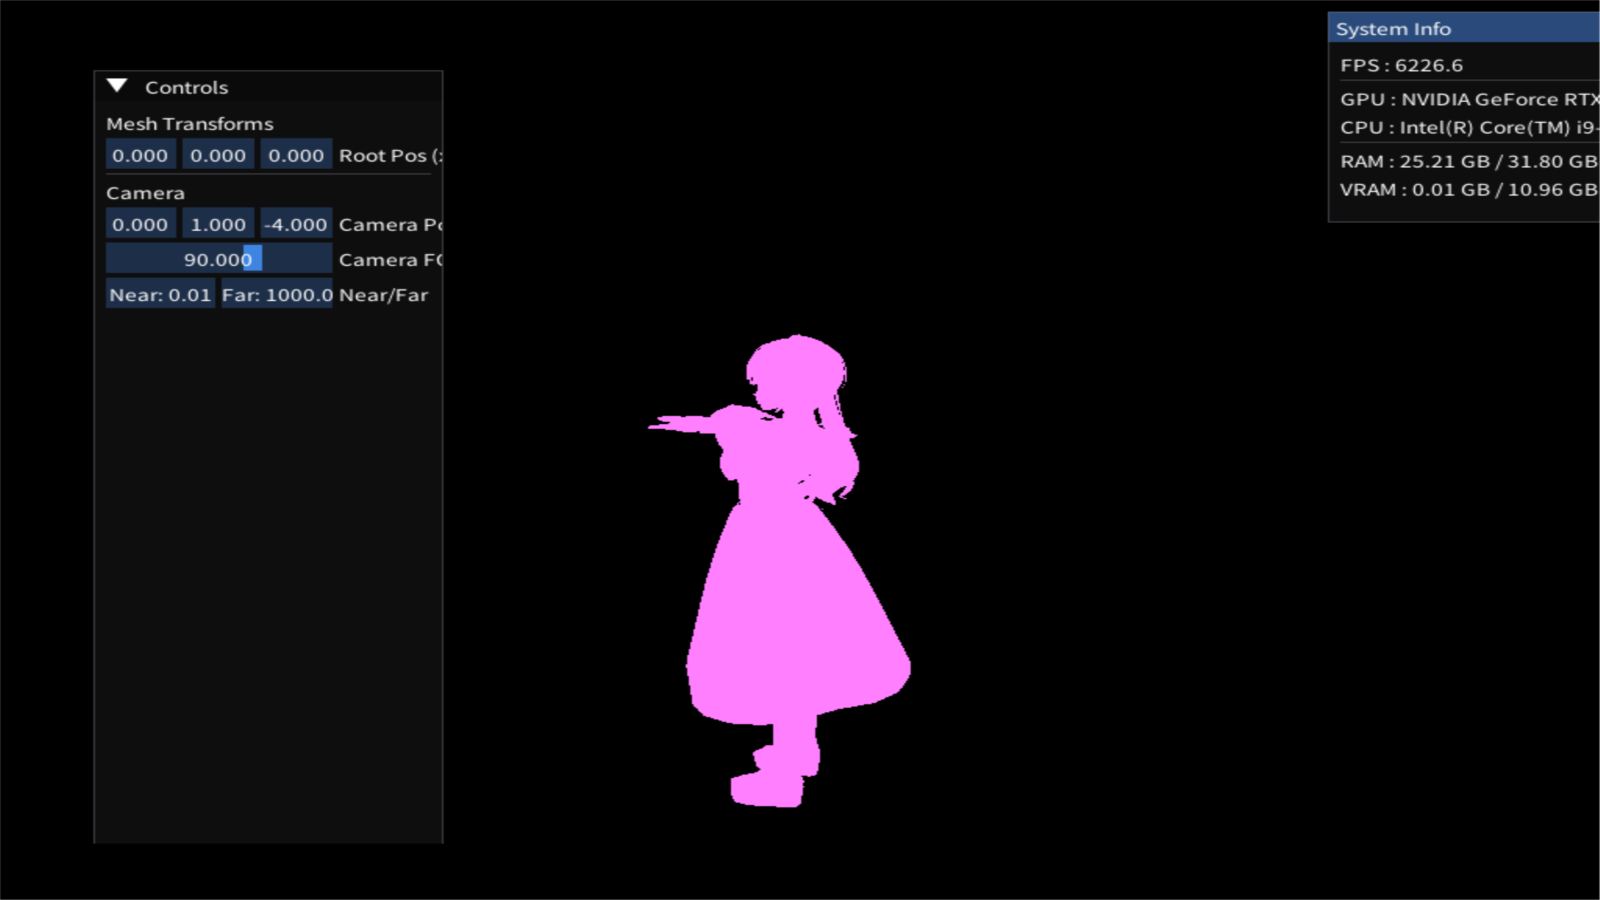
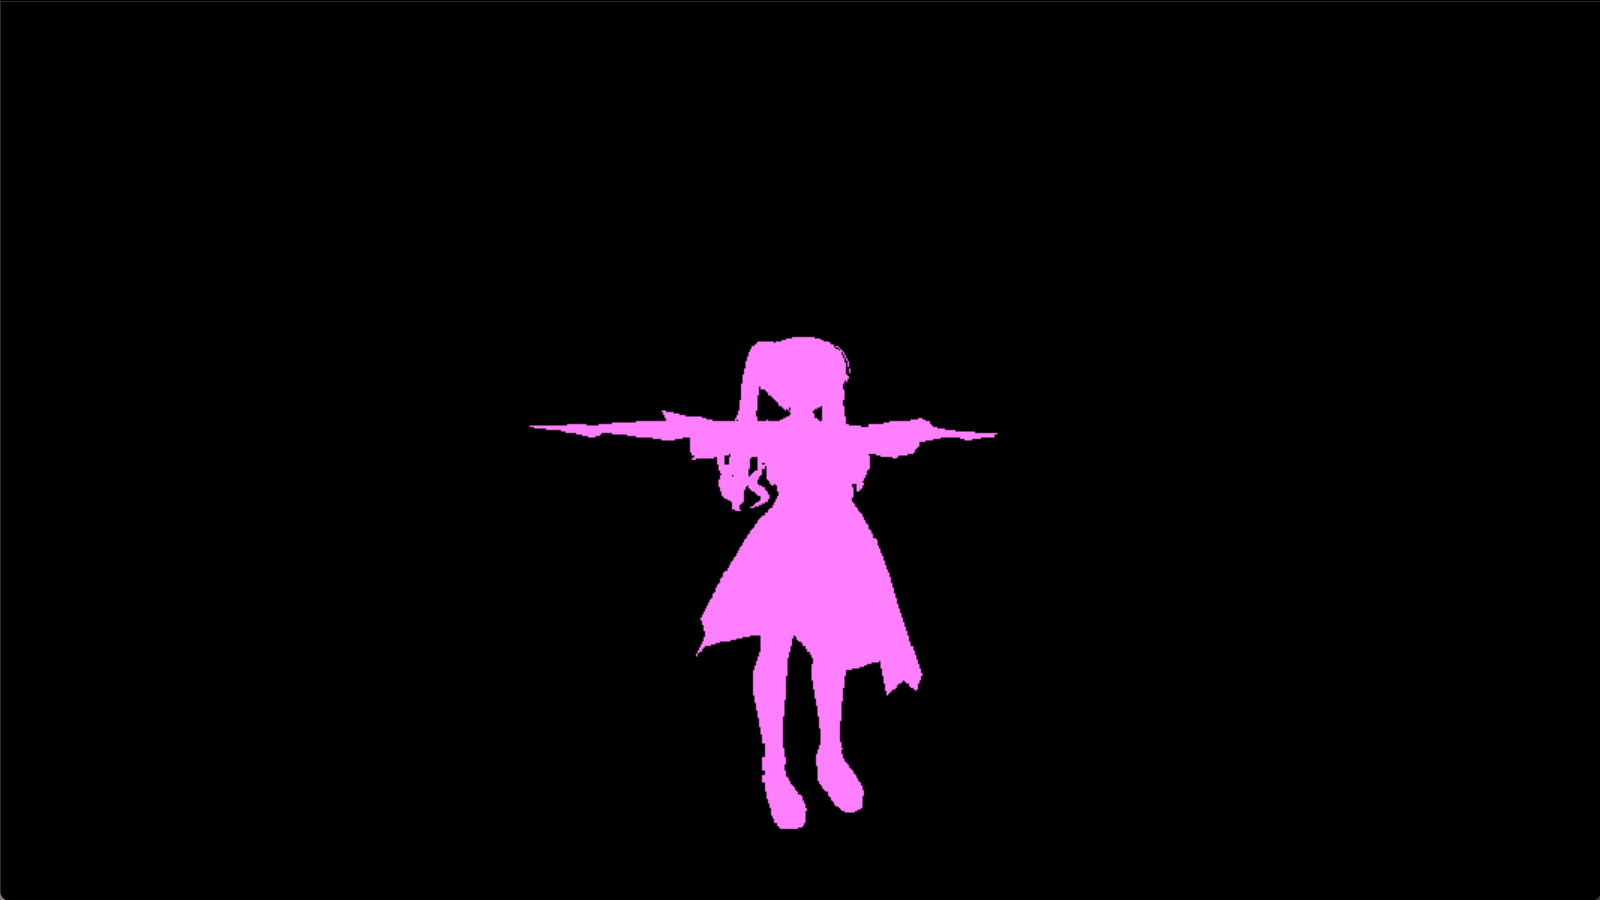
fix: publish front-facing project 06 media

diff --git a/docs/media/readme/capture-report.md b/docs/media/readme/capture-report.md
@@ -14,8 +14,8 @@ Generated: 2026-08-24 12:26:42
 | 04 | 1 | 04_RenderingMeshWithTexture.exe | docs/media/readme/04-RenderingMeshWithTexture.gif | Success | 800x450 | 383171 | GIF captured; source frames collected in 3943 ms |
 | 05 | 1 | 05_Mesh.exe | docs/media/readme/05-Mesh.png | Success | 1600x900 | 97901 | PNG captured |
 | 05 | 1 | 05_Mesh.exe | docs/media/readme/05-Mesh.gif | Success | 800x450 | 169924 | GIF captured; source frames collected in 3951 ms |
-| 06 | 1 | 06_pmx.exe | docs/media/readme/06-pmx.png | Success | 1600x900 | 99327 | PNG captured |
-| 06 | 1 | 06_pmx.exe | docs/media/readme/06-pmx.gif | Success | 800x450 | 204577 | GIF captured; source frames collected in 3940 ms |
+| 06 | 1 | 06_pmx.exe | docs/media/readme/06-pmx.png | Success | 1600x900 | 19340 | PNG captured |
+| 06 | 1 | 06_pmx.exe | docs/media/readme/06-pmx.gif | Success | 800x450 | 294967 | GIF generated from the captured PNG with the reproducible presentation-pan stage |
 | 07 | 1 | 07_pmxTexture.exe | docs/media/readme/07-pmxTexture.png | Success | 1600x900 | 100180 | PNG captured |
 | 07 | 1 | 07_pmxTexture.exe | docs/media/readme/07-pmxTexture.gif | Success | 800x450 | 133047 | GIF captured; source frames collected in 3974 ms |
 | 08 | 1 | 08_ImguiSystemInfo.exe | docs/media/readme/08-ImguiSystemInfo.png | Success | 1600x900 | 169830 | PNG captured |
